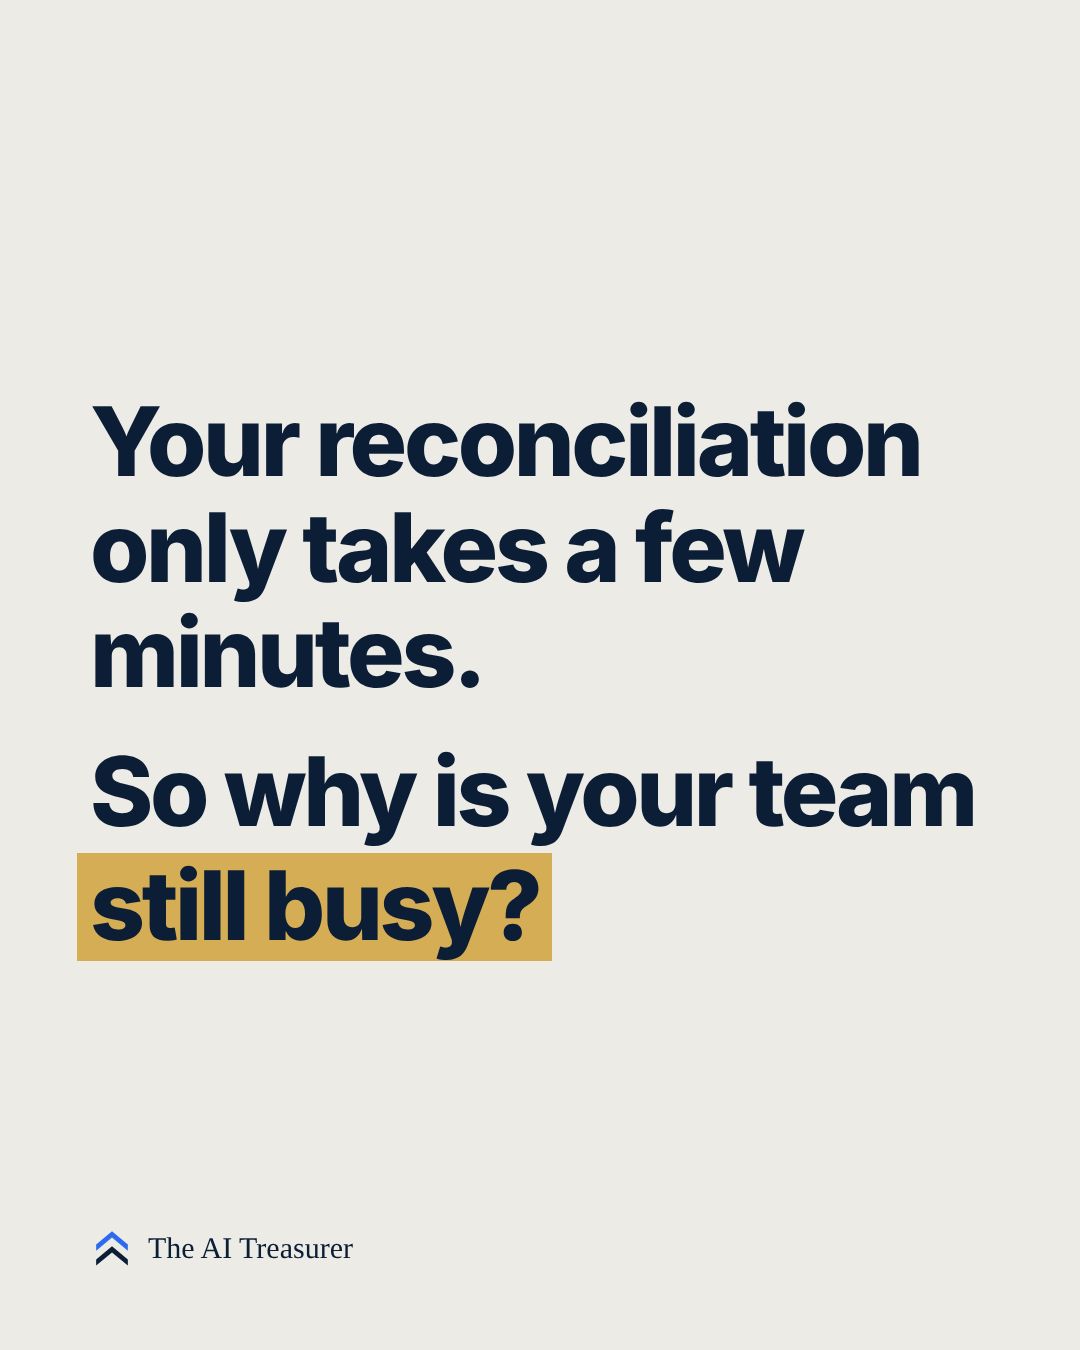
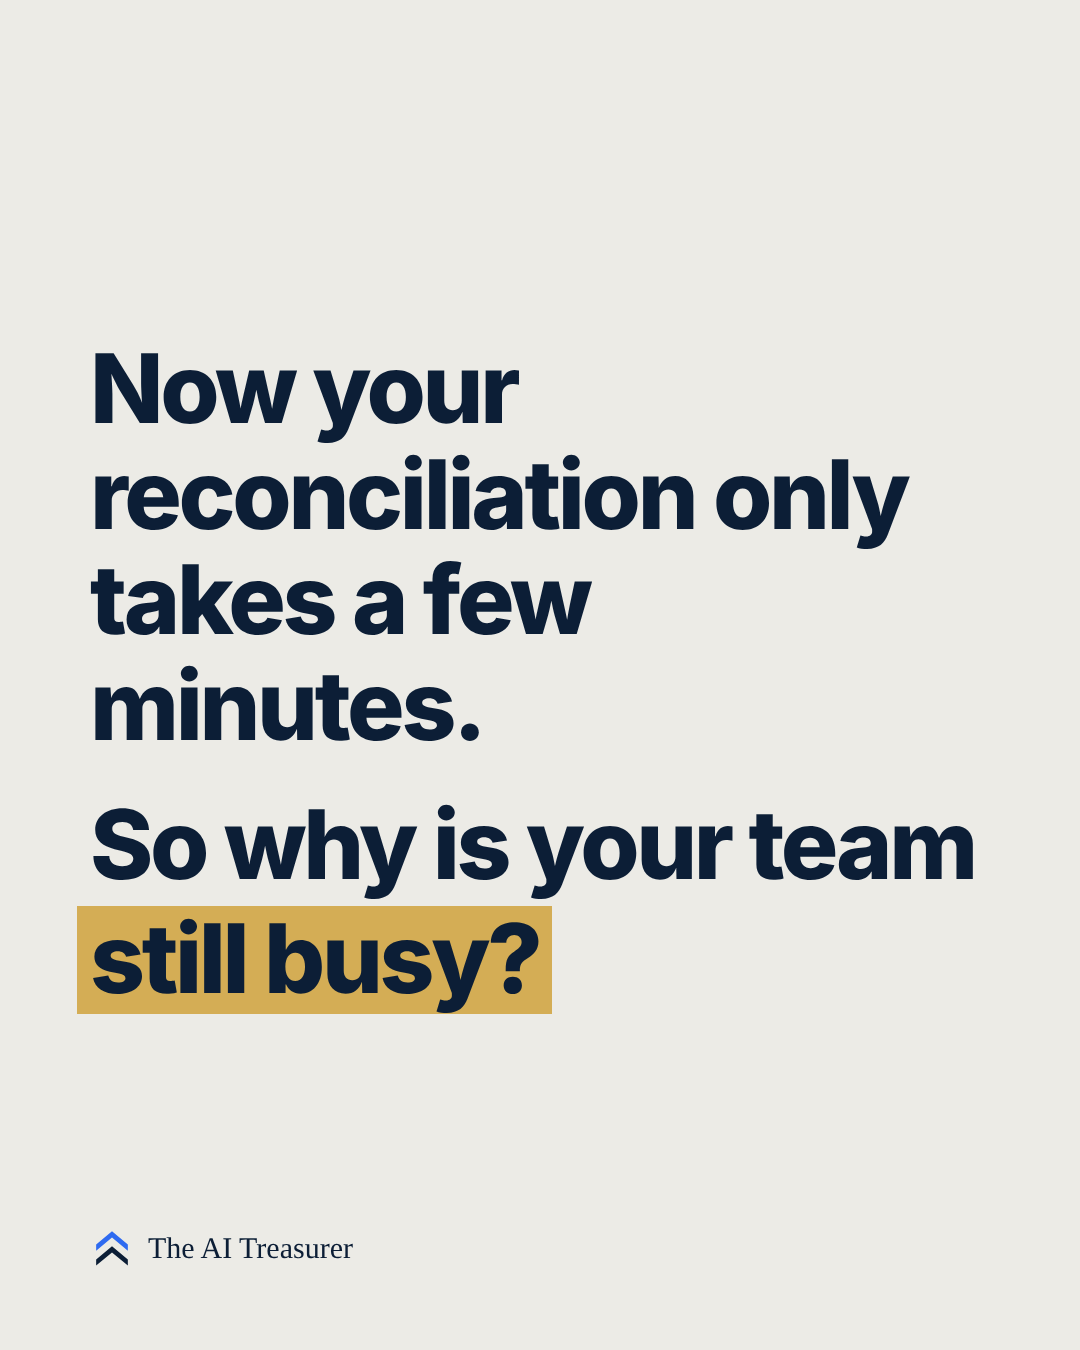
Article 3 draft: hook starts with 'Now'
Claude-Session: https://claude.ai/code/session_01JedePw4pbBaJB5BPxPMryK

Changed region(s): [[0.0611, 0.2489, 0.9167, 0.7778]]

diff --git a/edition_template.html b/edition_template.html
@@ -1999,7 +1999,7 @@
       <h2 id="arts-h">Insights</h2>
       <p class="arts-lede">Practical views for CFOs and Treasurers.</p>
       <div class="arts-list"><!--INSIGHTS-HOME-START-->
-        <a class="art-card has-img" href="/articles/where-freed-hours-go/"><span class="art-img"><img src="/articles/where-freed-hours-go/card.jpg" alt="" width="1200" height="627" loading="lazy"></span><span class="art-meta"><span class="art-topic">Finance leadership</span> &middot; 18 Nov 2026 &middot; 3 min read</span><span class="art-t">Your reconciliation only takes a few minutes. So why is your team still busy?</span><span class="art-d">How to plan the time automation frees up, and how to check where it went.</span><span class="art-go">Read the article</span></a>
+        <a class="art-card has-img" href="/articles/where-freed-hours-go/"><span class="art-img"><img src="/articles/where-freed-hours-go/card.jpg" alt="" width="1200" height="627" loading="lazy"></span><span class="art-meta"><span class="art-topic">Finance leadership</span> &middot; 18 Nov 2026 &middot; 3 min read</span><span class="art-t">Now your reconciliation only takes a few minutes. So why is your team still busy?</span><span class="art-d">How to plan the time automation frees up, and how to check where it went.</span><span class="art-go">Read the article</span></a>
         <a class="art-card has-img" href="/articles/what-did-treasury-know/"><span class="art-img"><img src="/articles/what-did-treasury-know/card.jpg" alt="" width="1200" height="627" loading="lazy"></span><span class="art-meta"><span class="art-topic">Controls and audit</span> &middot; 17 Nov 2026 &middot; 3 min read</span><span class="art-t">Your AI cash forecast just refreshed. Can Treasury prove what it knew last Monday?</span><span class="art-d">Why every major Treasury decision needs a forecast version of record, and what that record should hold.</span><span class="art-go">Read the article</span></a>
         <a class="art-card has-img" href="/articles/start-where-mistakes-are-cheap/"><span class="art-img"><img src="/articles/start-where-mistakes-are-cheap/card.png" alt="" width="1200" height="627" loading="lazy"></span><span class="art-meta"><span class="art-topic">AI and automation</span> &middot; 10 Nov 2026 &middot; 3 min read</span><span class="art-t">Your First AI Task in Treasury Should Be Unglamorous</span><span class="art-d">Four questions to decide which tasks you can trust AI with, and which must stay with your team.</span><span class="art-go">Read the article</span></a>
         <!--INSIGHTS-HOME-END-->

diff --git a/index.html b/index.html
@@ -1999,7 +1999,7 @@
       <h2 id="arts-h">Insights</h2>
       <p class="arts-lede">Practical views for CFOs and Treasurers.</p>
       <div class="arts-list"><!--INSIGHTS-HOME-START-->
-        <a class="art-card has-img" href="/articles/where-freed-hours-go/"><span class="art-img"><img src="/articles/where-freed-hours-go/card.jpg" alt="" width="1200" height="627" loading="lazy"></span><span class="art-meta"><span class="art-topic">Finance leadership</span> &middot; 18 Nov 2026 &middot; 3 min read</span><span class="art-t">Your reconciliation only takes a few minutes. So why is your team still busy?</span><span class="art-d">How to plan the time automation frees up, and how to check where it went.</span><span class="art-go">Read the article</span></a>
+        <a class="art-card has-img" href="/articles/where-freed-hours-go/"><span class="art-img"><img src="/articles/where-freed-hours-go/card.jpg" alt="" width="1200" height="627" loading="lazy"></span><span class="art-meta"><span class="art-topic">Finance leadership</span> &middot; 18 Nov 2026 &middot; 3 min read</span><span class="art-t">Now your reconciliation only takes a few minutes. So why is your team still busy?</span><span class="art-d">How to plan the time automation frees up, and how to check where it went.</span><span class="art-go">Read the article</span></a>
         <a class="art-card has-img" href="/articles/what-did-treasury-know/"><span class="art-img"><img src="/articles/what-did-treasury-know/card.jpg" alt="" width="1200" height="627" loading="lazy"></span><span class="art-meta"><span class="art-topic">Controls and audit</span> &middot; 17 Nov 2026 &middot; 3 min read</span><span class="art-t">Your AI cash forecast just refreshed. Can Treasury prove what it knew last Monday?</span><span class="art-d">Why every major Treasury decision needs a forecast version of record, and what that record should hold.</span><span class="art-go">Read the article</span></a>
         <a class="art-card has-img" href="/articles/start-where-mistakes-are-cheap/"><span class="art-img"><img src="/articles/start-where-mistakes-are-cheap/card.png" alt="" width="1200" height="627" loading="lazy"></span><span class="art-meta"><span class="art-topic">AI and automation</span> &middot; 10 Nov 2026 &middot; 3 min read</span><span class="art-t">Your First AI Task in Treasury Should Be Unglamorous</span><span class="art-d">Four questions to decide which tasks you can trust AI with, and which must stay with your team.</span><span class="art-go">Read the article</span></a>
         <!--INSIGHTS-HOME-END-->

diff --git a/articles/where-freed-hours-go/index.html b/articles/where-freed-hours-go/index.html
@@ -7,10 +7,10 @@
 <link rel="icon" type="image/svg+xml" href="/favicon.svg">
 <link rel="icon" type="image/png" sizes="32x32" href="/icon-32.png">
 <link rel="apple-touch-icon" href="/icon-180.png">
-<title>Your reconciliation only takes a few minutes. So why is your team still busy? | The AI Treasurer</title>
+<title>Now your reconciliation only takes a few minutes. So why is your team still busy? | The AI Treasurer</title>
 <meta name="description" content="Automation gives back pieces of time, not people. How to plan where the freed time goes before go live, and how to check where it went.">
 <link rel="canonical" href="https://theaitreasurer.com/articles/where-freed-hours-go/">
-<meta property="og:title" content="Your reconciliation only takes a few minutes. So why is your team still busy?">
+<meta property="og:title" content="Now your reconciliation only takes a few minutes. So why is your team still busy?">
 <meta property="og:description" content="How to plan the time automation frees up, and how to check where it went.">
 <meta property="og:type" content="article">
 <meta property="og:url" content="https://theaitreasurer.com/articles/where-freed-hours-go/">
@@ -186,11 +186,11 @@
 
   <div class="art-head">
 <div class="kicker">Insights &middot; Finance leadership</div>
-<h1>Your reconciliation only takes a few minutes. So why is your team still busy?</h1>
+<h1>Now your reconciliation only takes a few minutes. So why is your team still busy?</h1>
 <p class="dek">How to plan the time automation frees up, and how to check where it went.</p>
 <p class="byline"><span class="who">By Gopakumar Menon, CA, CPA, CTP</span> <span><span class="sep first">&middot;</span><time datetime="2026-11-18">18 November 2026</time></span> <span><span class="sep">&middot;</span>3 min read</span></p>
 </div>
-<figure class="hero" style="margin:0 0 28px"><img src="hero.png" width="1080" height="1350" alt="Your reconciliation only takes a few minutes. So why is your team still busy?" style="display:block;width:100%;max-width:480px;height:auto;margin:0 auto;border-radius:6px"></figure>
+<figure class="hero" style="margin:0 0 28px"><img src="hero.png" width="1080" height="1350" alt="Now your reconciliation only takes a few minutes. So why is your team still busy?" style="display:block;width:100%;max-width:480px;height:auto;margin:0 auto;border-radius:6px"></figure>
 <p class="tag">Illustrative example</p>
 <p>A Treasury team automates its daily bank reconciliation.</p>
 <p>Matching that took most of the morning now only takes a few minutes.</p>

diff --git a/insights/index.html b/insights/index.html
@@ -136,9 +136,9 @@
           <span class="ins-no" aria-hidden="true">03</span>
           <div class="ins-body">
             <p class="ins-meta"><span class="ins-topic">Finance leadership</span> &middot; <time datetime="2026-11-18">18 November 2026</time> &middot; <span class="nw">3 min read</span></p>
-            <h2 class="ins-t"><a href="/articles/where-freed-hours-go/">Your reconciliation only takes a few minutes. So why is your team still busy?</a></h2>
+            <h2 class="ins-t"><a href="/articles/where-freed-hours-go/">Now your reconciliation only takes a few minutes. So why is your team still busy?</a></h2>
             <p class="ins-d">How to plan the time automation frees up, and how to check where it went.</p>
-            <a class="ins-go" href="/articles/where-freed-hours-go/" aria-label="Read the article: Your reconciliation only takes a few minutes. So why is your team still busy?">Read the article</a>
+            <a class="ins-go" href="/articles/where-freed-hours-go/" aria-label="Read the article: Now your reconciliation only takes a few minutes. So why is your team still busy?">Read the article</a>
           </div>
           <a class="ins-img" href="/articles/where-freed-hours-go/" tabindex="-1" aria-hidden="true"><img src="/articles/where-freed-hours-go/card.jpg" alt="" width="1200" height="627" loading="lazy"></a>
         </li>
